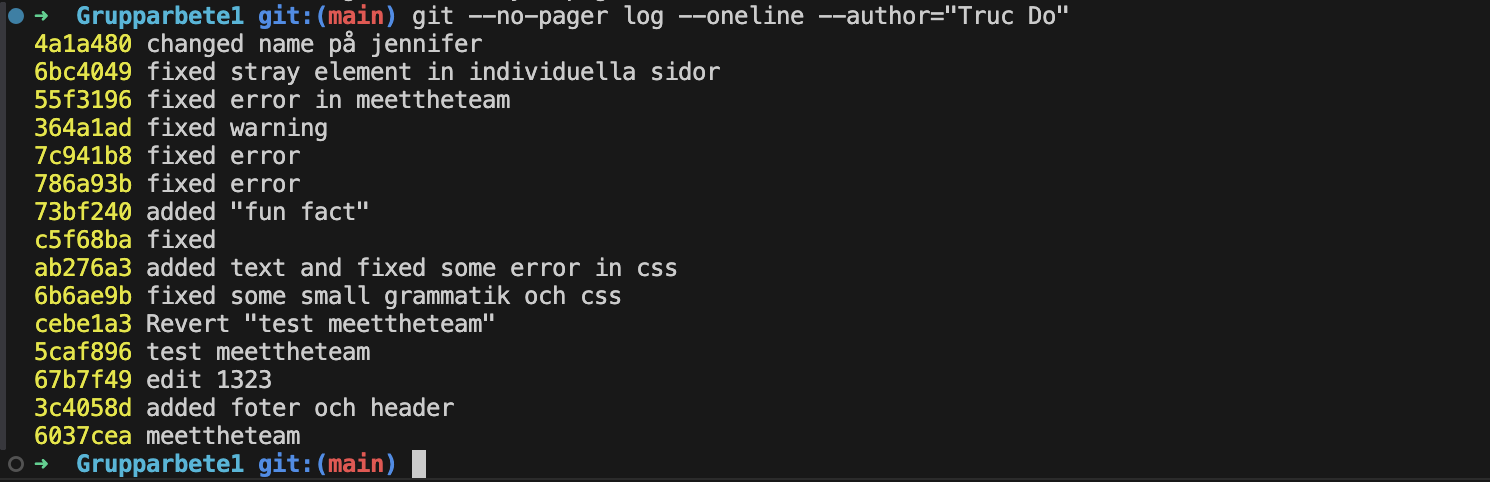
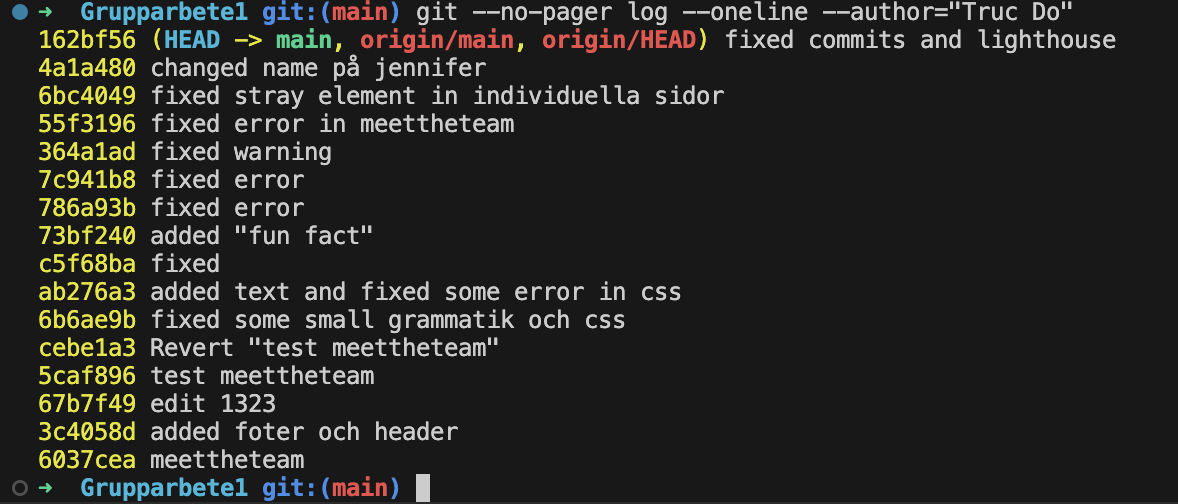
fixed the img size in commits site

Changed region(s): [[0.0, 0.0, 0.9474, 1.0]]

diff --git a/individuella-sidor/individuella.css b/individuella-sidor/individuella.css
@@ -305,7 +305,7 @@ img:hover{
 
 .lighthousepic {
     height: 300px;
-    width: 500px;
+    width: 550px;
     border-radius: 10px;
 }
 
